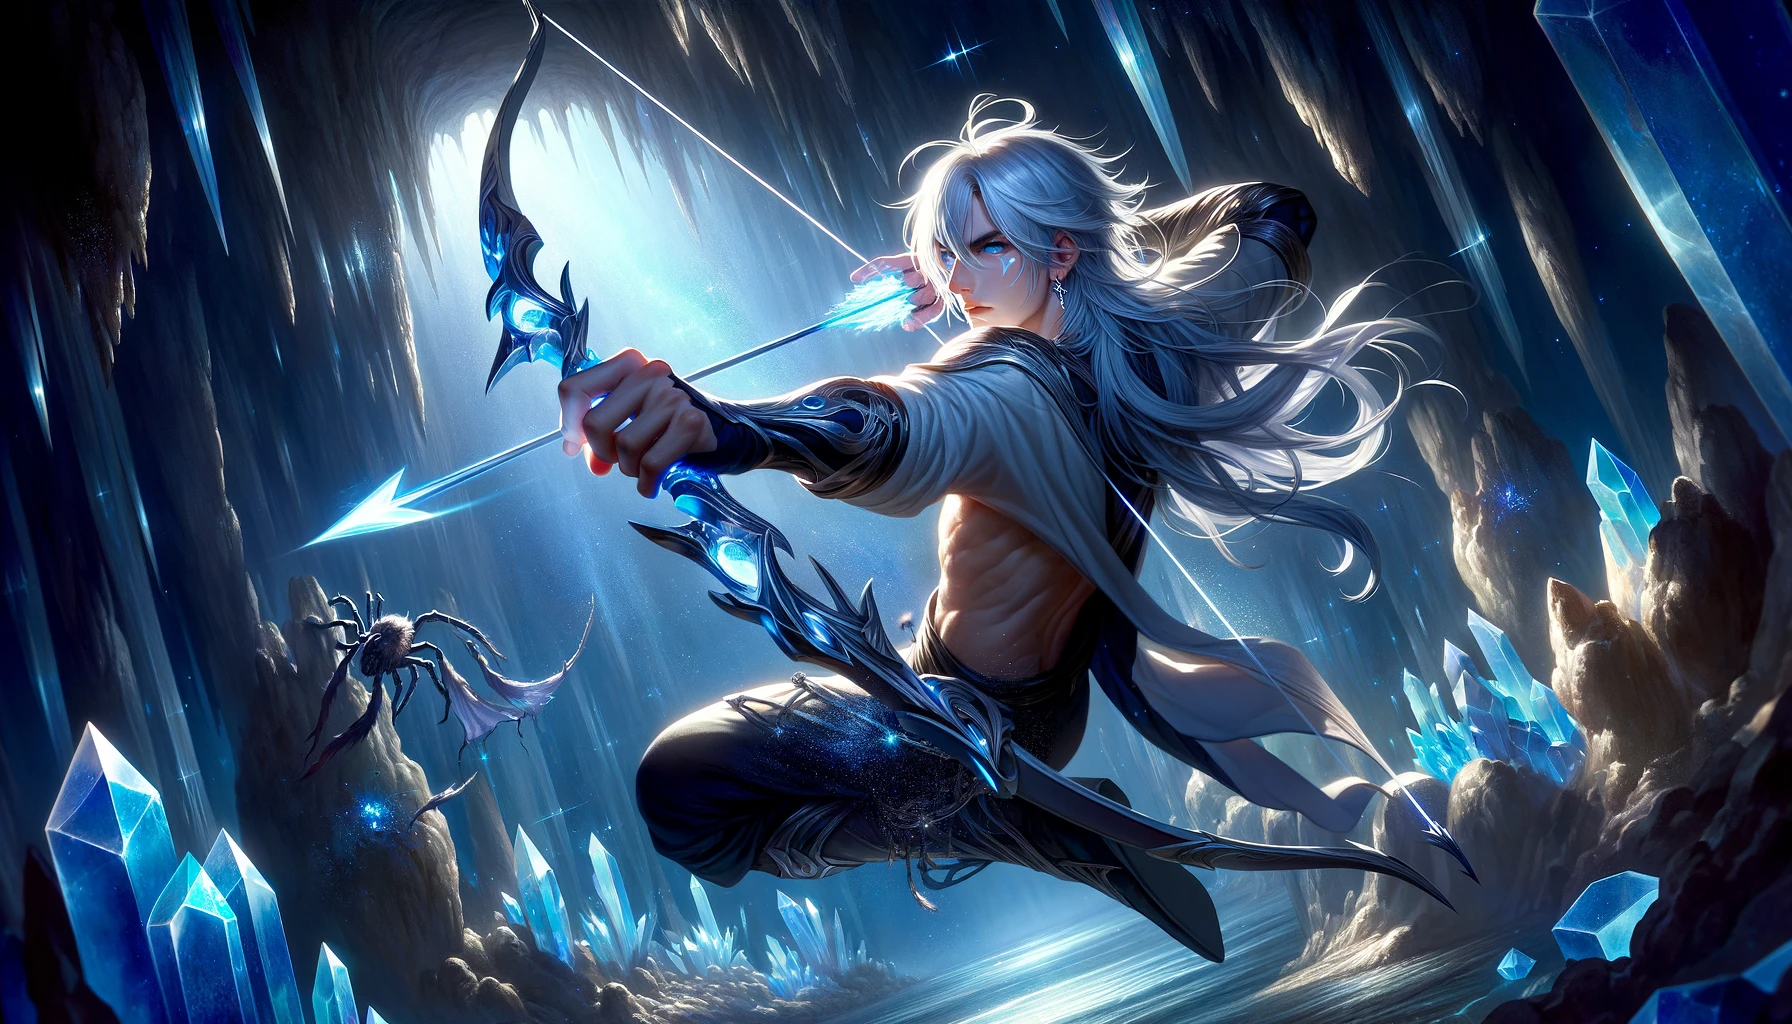
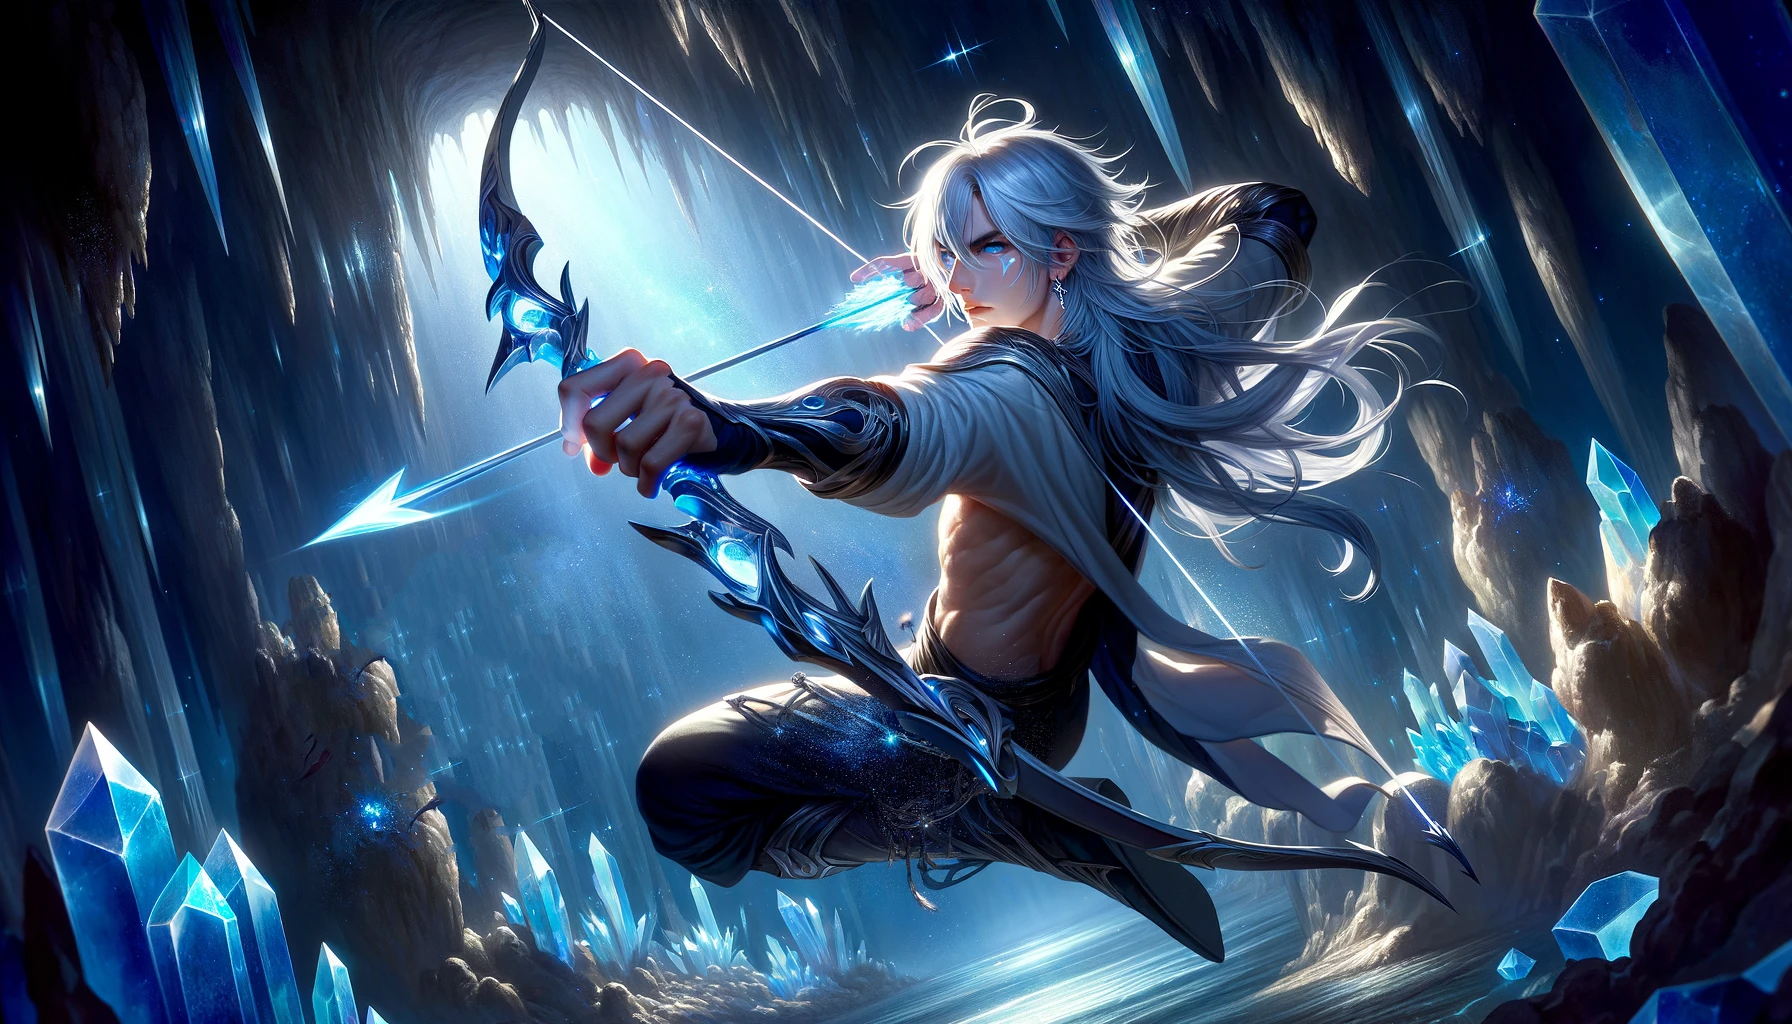
feat: more seeds

Changed region(s): [[0.1562, 0.5312, 0.3438, 0.8125]]

diff --git a/prisma/seedData.ts b/prisma/seedData.ts
@@ -68,4 +68,35 @@ export const searchableImages: SearchableImageSeed[] = [
     tags: ["fire", "elemental", "battler"],
     title: "Guardian Fire Elemental",
   },
+  {
+    description: "Can strike two opponents at once with a lightning bolt.",
+    id: 5,
+    imageFileName: "5-thunder-mage.png",
+    tags: ["thunder", "magic", "ranged", "battler"],
+    title: "Thunder Mage",
+  },
+  {
+    description:
+      "Caelum, surrounded by vibrant crystals, is exhausted after his battle.",
+    id: 6,
+    imageFileName: "6-vibrant-anime-caelum-exhausted.png",
+    tags: ["celestial", "ranged", "battler", "arc-caelum-ch-1"],
+    title: "Vibrant Exhausted Caelum",
+  },
+  {
+    description:
+      "A crystal spider feeds on magical energy and has sharp claws.",
+    id: 7,
+    imageFileName: "7-crystal-spider.png",
+    tags: ["bug", "monster", "arc-caelum-ch-1", "battler"],
+    title: "Crystal Spider",
+  },
+  {
+    description:
+      "Caelum, with his Stardust Bow drawn, is ready to fire an arrow.",
+    id: 8,
+    imageFileName: "8-caelum-mystic-archer-adrenaline.png",
+    tags: ["arc-caelum-ch-1", "caelum", "battler", "celestial", "ranged"],
+    title: "Adrenaline Rush Caelum",
+  },
 ];

diff --git a/README.md b/README.md
@@ -44,6 +44,7 @@ See this [Aria's Tale YouTube Playlist](https://www.youtube.com/playlist?list=PL
    1. DALL-E, as built into GPT-4
    2. [Leonardo.ai Image Generator](https://leonardo.ai/)
    3. [Google Image Generator](https://www.google.com/search/images/)
+   4. [Pixlr Magic Eraser](https://pixlr.com/express/?tool=paint)
 4. Video Generators
    1. [Decohere](https://app.decohere.ai/turbo)
    2. [Runway ML](app.runwayml.com) for text to video
